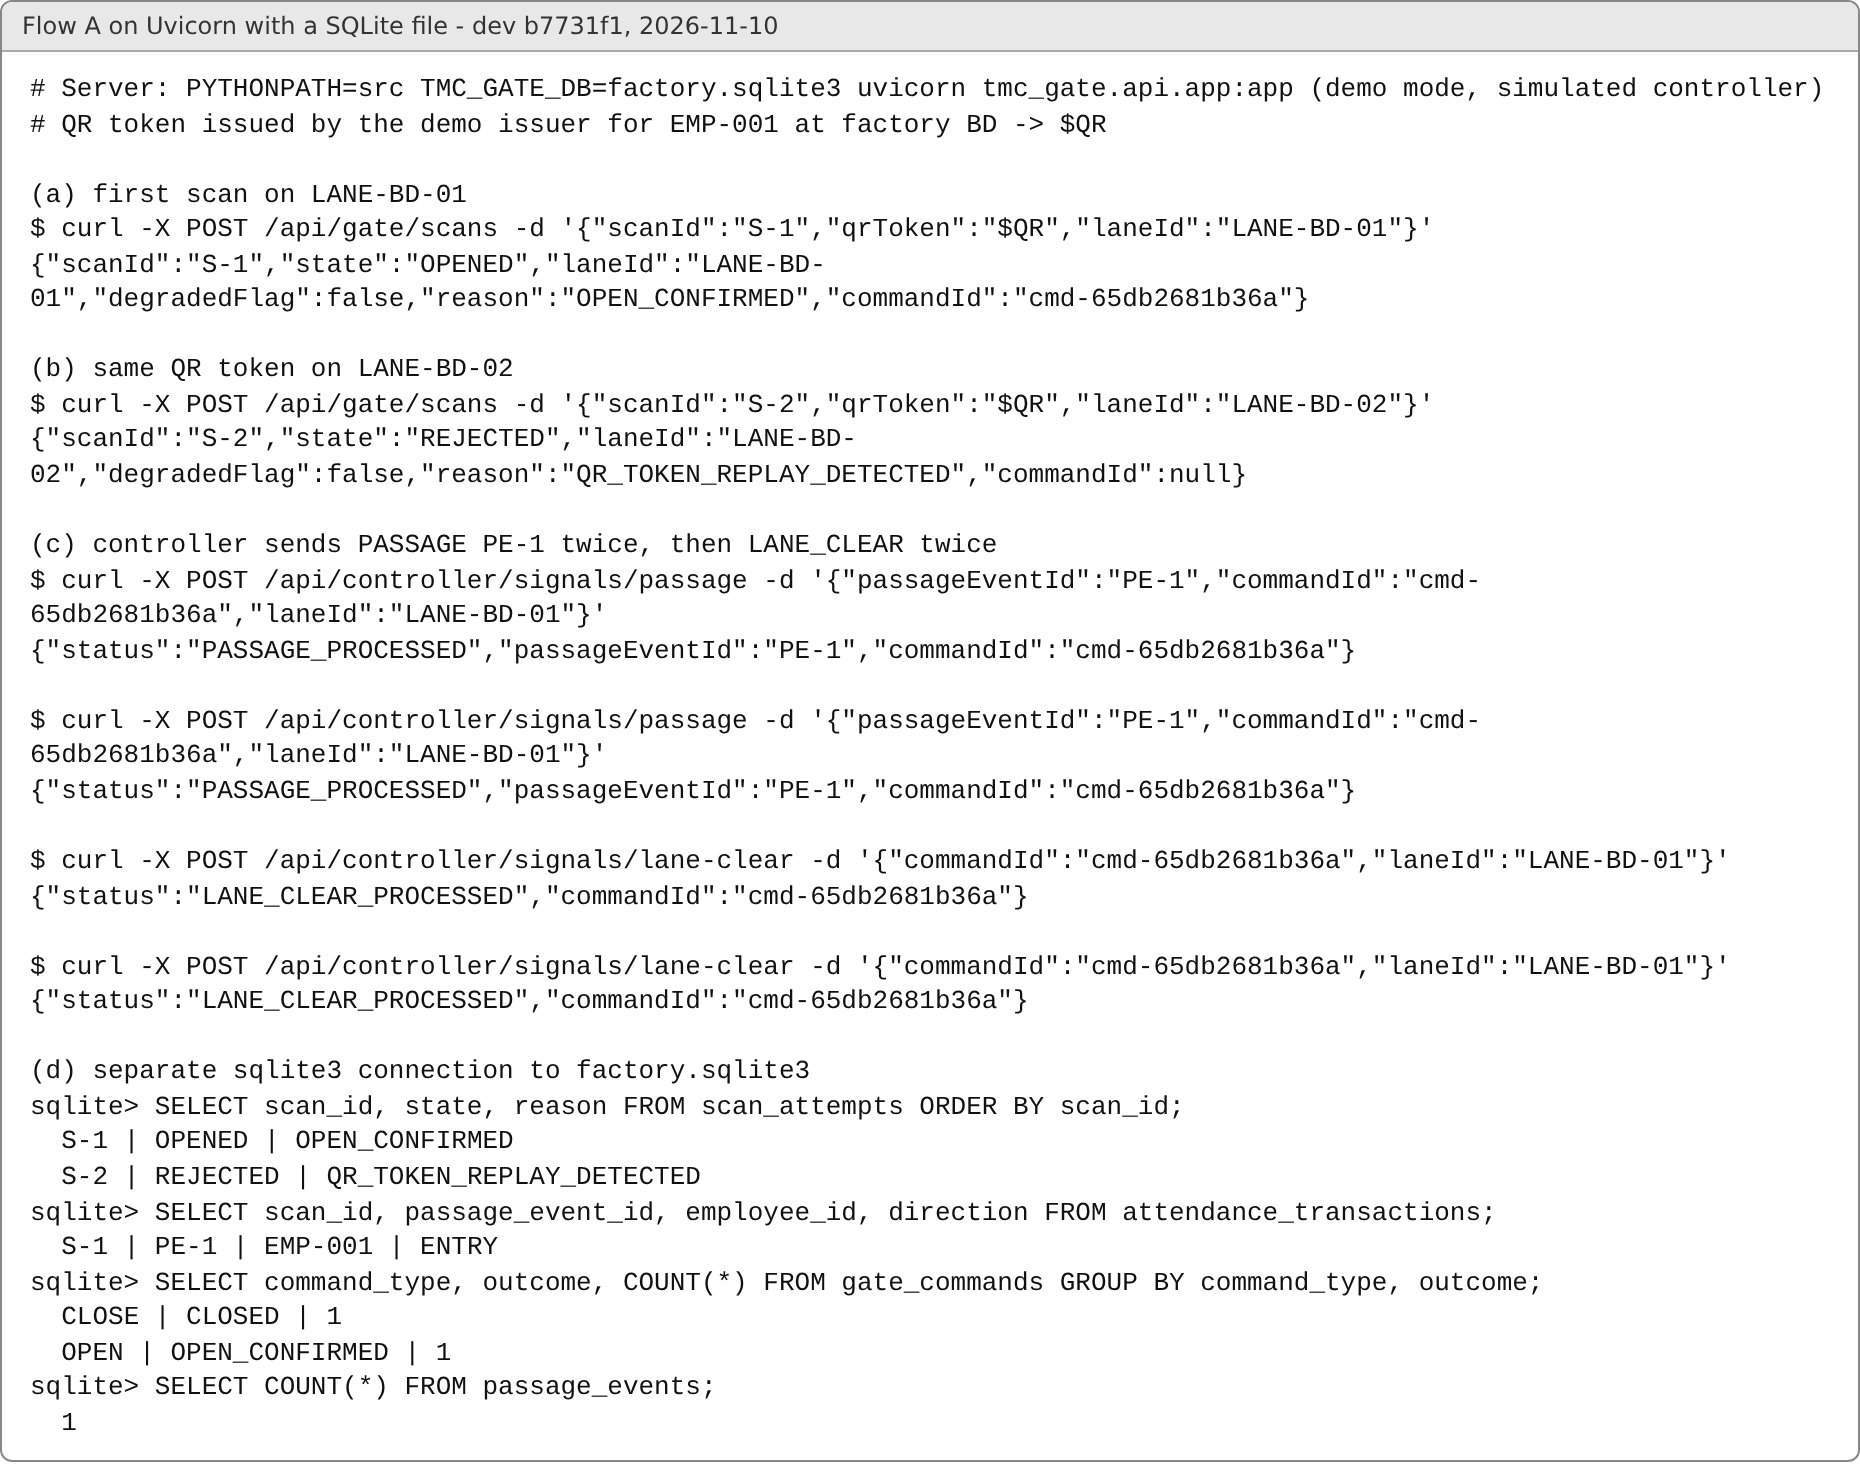
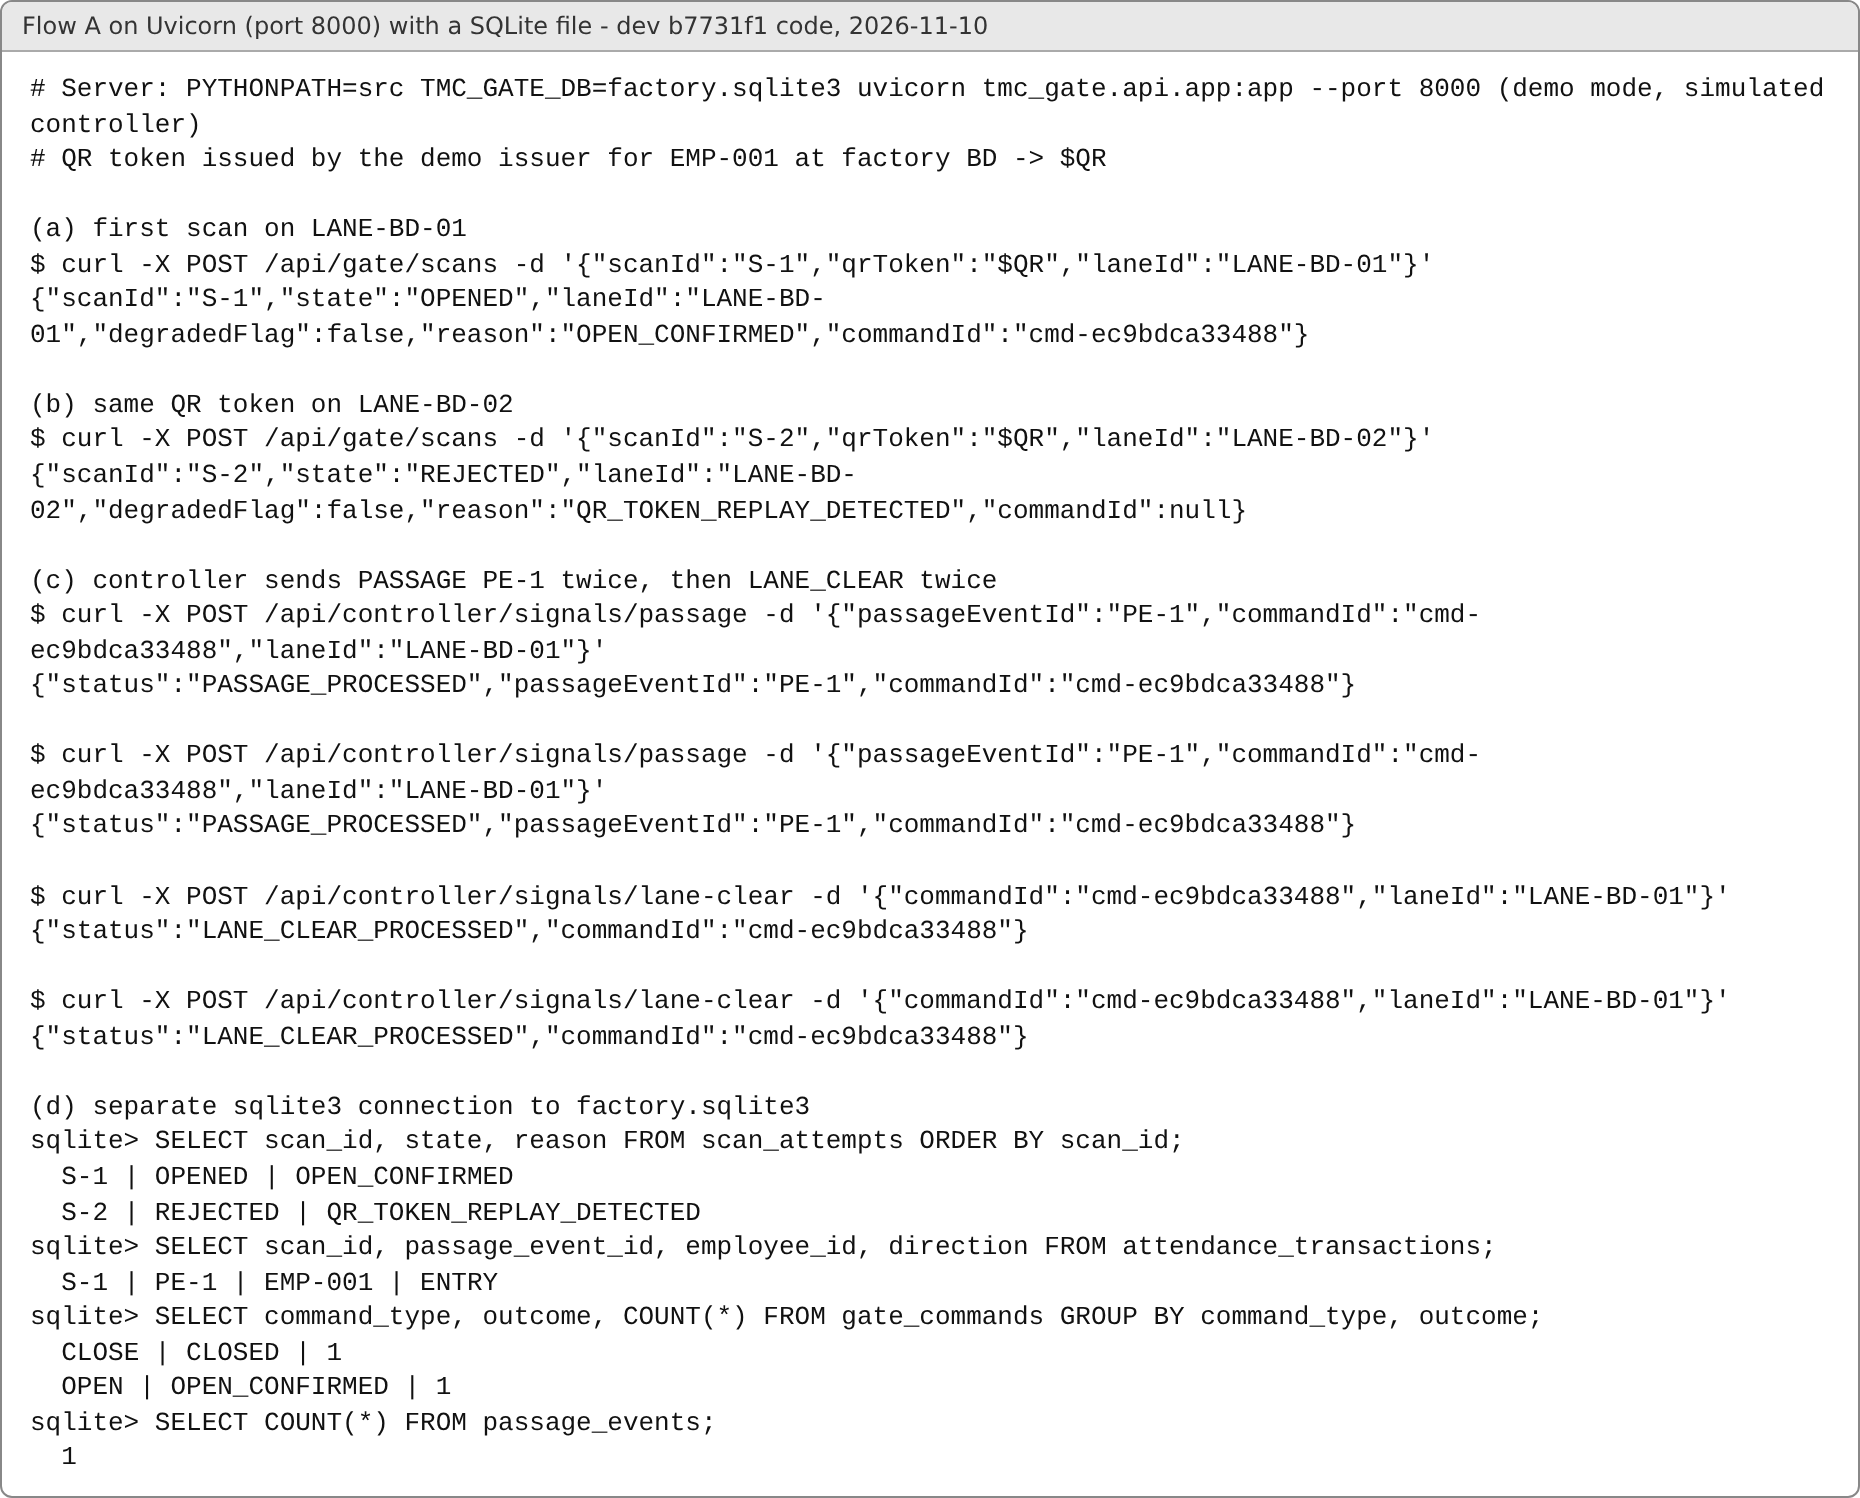
docs(report): align run evidence with what it shows
- Table 9.7 (a)/(d) conclusions limited to what the run observes; order and single closeGate point to the tests
- demo rerun on uvicorn --port 8000; script, figure 9.3, and command line now agree
- add the real Uvicorn log as flow-a-uvicorn-server-log.txt (*.log is ignored)

Claude-Session: https://claude.ai/code/session_011HNWiCpRdRvstsYqKnHekM

Changed region(s): [[0.0, 0.0, 0.9978, 0.9529], [0.0, 0.9836, 1.0, 1.0]]

diff --git a/report/chapters/task2.tex b/report/chapters/task2.tex
@@ -356,7 +356,7 @@ The ``+1'' in the Package 5 row is the expected failure, and it is there on purp
 
 \noindent\begin{minipage}{\linewidth}
 \centering
-\includegraphics[width=0.85\linewidth]{figure/figure-9-4-pytest-run.png}
+\includegraphics[width=0.72\linewidth]{figure/figure-9-4-pytest-run.png}
 
 \vspace{6pt}
 \textbf{Figure 9.4. Output of the Test Suite: 473 Passed and 1 Expected Failure}
@@ -378,22 +378,22 @@ The ten tests in \code{test_e2e_sqlite_flows.py} are the closest our automated t
 For Flow B they show that a request without a guard session gets HTTP 401, that an assisted opening stores the support case once and creates no attendance, and that an emergency hold makes new scans return LANE\_BUSY until the reset, after which LANE\_CLEAR closes the gate. One rule has no end-to-end test: a PASSAGE that arrives after the 15-second window. It is checked only at processor level (\code{test_pkg3_rules.py}) and for storage (\code{test_pkg4_sqlite_repos.py}).
 
 
-We also ran the four demo scenarios of the README through FastAPI's TestClient on a SQLite file, and all of them gave the expected results. The manual run in Section 9.5 (Figure 9.3) was done on a real Uvicorn server with a SQLite file. Table 9.7 lists what each part of it shows and where the evidence is. The commands and the server log are kept in \code{report/evidence/}. Clicking through the Swagger page during the presentation is still a manual step.
+We also ran the four demo scenarios of the README through FastAPI's TestClient on a SQLite file, and all of them gave the expected results. The manual run in Section 9.5 (Figure 9.3) was done on a real Uvicorn server with a SQLite file. Table 9.7 lists what each part of it shows. The order of the writes before openGate and the single closeGate call are checked by the tests in Table 9.5, not by this run. The script, the captured output, and the Uvicorn log are kept in \code{report/evidence/}. Clicking through the Swagger page during the presentation is still a manual step.
 
 \begin{longtable}{|>{\raggedright\arraybackslash}p{22pt}|>{\raggedright\arraybackslash}p{130pt}|>{\raggedright\arraybackslash}p{140pt}|>{\raggedright\arraybackslash}p{106pt}|}
 \hline
-\multicolumn{1}{|>{\columncolor{tableheader}\centering\arraybackslash}p{22pt}|}{\textbf{Part}} & \multicolumn{1}{>{\columncolor{tableheader}\centering\arraybackslash}p{130pt}|}{\textbf{What we sent}} & \multicolumn{1}{>{\columncolor{tableheader}\centering\arraybackslash}p{140pt}|}{\textbf{What we observed}} & \multicolumn{1}{>{\columncolor{tableheader}\centering\arraybackslash}p{106pt}|}{\textbf{Rule shown}} \\
+\multicolumn{1}{|>{\columncolor{tableheader}\centering\arraybackslash}p{22pt}|}{\textbf{Part}} & \multicolumn{1}{>{\columncolor{tableheader}\centering\arraybackslash}p{130pt}|}{\textbf{What we sent}} & \multicolumn{1}{>{\columncolor{tableheader}\centering\arraybackslash}p{140pt}|}{\textbf{What we observed}} & \multicolumn{1}{>{\columncolor{tableheader}\centering\arraybackslash}p{106pt}|}{\textbf{What it shows}} \\
 \hline
 \endhead
 \multicolumn{4}{c}{\rule{0pt}{20pt}\normalsize\textbf{Table 9.7. Manual Run of Flow A on Uvicorn with a SQLite File}} \\
 \endlastfoot
-(a) & Scan S-1 with a fresh QR code on LANE-BD-01 & OPENED, OPEN\_CONFIRMED, and a commandId & Store before acting, then open (ADR-02) \\
+(a) & Scan S-1 with a fresh QR code on LANE-BD-01 & OPENED, OPEN\_CONFIRMED, and a commandId & Confirmed opening for a valid scan \\
 \hline
 (b) & Scan S-2 with the same code on LANE-BD-02 & REJECTED, QR\_TOKEN\_\allowbreak REPLAY\_\allowbreak DETECTED, no command & Single-use token claim (ADR-11) \\
 \hline
 (c) & PASSAGE PE-1 twice, then LANE\_CLEAR twice, for the commandId of S-1 & Each request answered with HTTP 200; this alone does not prove deduplication & -- \\*
 \hline\noalign{\nobreak}
-(d) & Read the database file with a separate connection & One attendance record (S-1, PE-1, EMP-001, ENTRY), one passage event, one OPEN and one CLOSE command & Repeated signals give one attendance and one closeGate (I-05, I-07) \\
+(d) & Read the database file with a separate connection & One attendance record (S-1, PE-1, EMP-001, ENTRY), one passage event, one OPEN and one CLOSE command & Repeated signals leave one attendance record and one persisted CLOSE command \\
 \hline
 \end{longtable}
 \phantomsection\addcontentsline{lot}{table}{\protect\numberline{9.7}Manual Run of Flow A on Uvicorn with a SQLite File}
